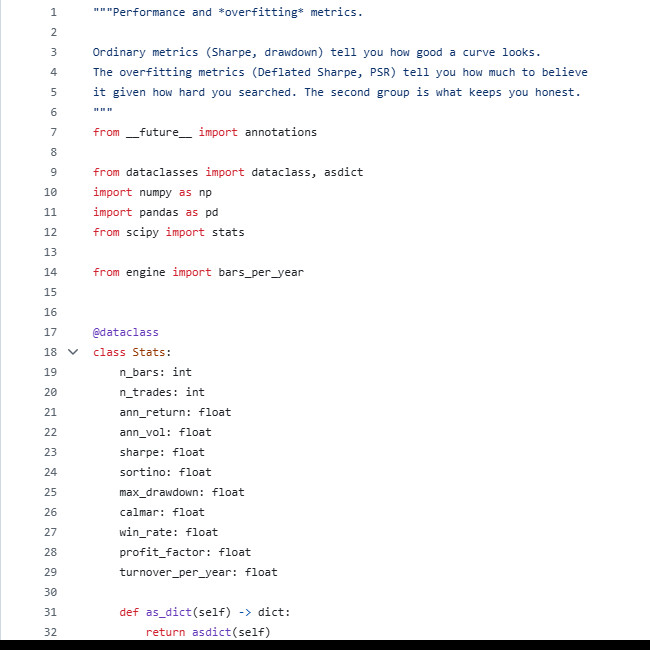
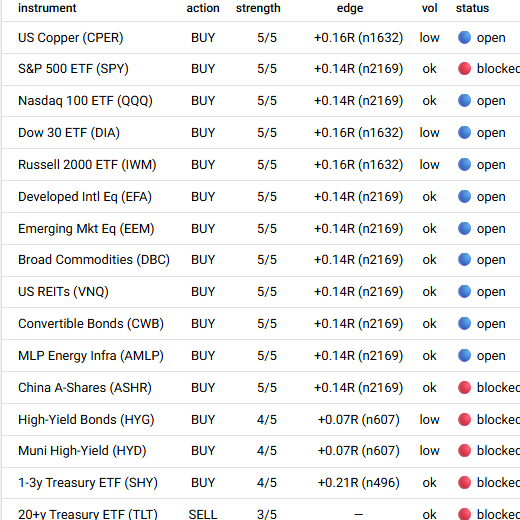
Add live dashboard link and real screenshots for Quant platform
The platform now has a public dashboard at quant.carsonng.com — add
a Live button/link alongside GitHub, and replace the repo-README-only
screenshot set with three real captures:

- board.png: the paper-trading Board view (redacted the paper
  account number, which appears twice in the UI chrome — precautionary,
  it's simulated money and the account ID isn't a credential, but
  consistent with the redaction standard already applied elsewhere)
- signals_gates.png: the live "Signals & Gates" view, which shows the
  deterministic risk gate directly — every instrument's entry
  conditions (strength, R:R, cooldown, de-correlation) and the exact
  reason a trade is blocked, not just open/blocked. No account
  numbers or dollar figures on this view at all, and it's a stronger,
  safer proof of the "deterministic gate, not an LLM judgment call"
  claim than the dashboard's financial totals are.
- repo_readme.png: kept as third image, unchanged

New cover_thumb.png is a close-up of the Signals & Gates table
(colorful open/blocked status dots + real gate reasoning) rather than
anything derived from the financial dashboard.

Did not access the LIVE (real-money) account view behind the
dashboard's "Open LIVE" toggle — stayed on the paper instance that
loads by default throughout.

diff --git a/assets/js/main.js b/assets/js/main.js
@@ -200,7 +200,7 @@ $(function () {
 	var images = [];
 	images['sprint_analyzer'] = ['landing.png'];
 	images['change_impact_assessor'] = ['landing.png', 'assessment_result.png'];
-	images['quant_dashboard'] = ['repo_readme.png'];
+	images['quant_dashboard'] = ['board.png', 'signals_gates.png', 'repo_readme.png'];
 	images['aws_code_review'] = ['pr_overview.png', 'q_developer_review.png'];
 	images['study_platform'] = ['landing.png'];
 	images['event_radar'] = ['landing.png', 'insights.png'];
@@ -223,7 +223,7 @@ $(function () {
 	var titles = [];
 	titles['sprint_analyzer'] = ['Sprint Analyzer dashboard'];
 	titles['change_impact_assessor'] = ['Change Impact Assessor input form', 'HIGH-risk assessment pending human sign-off'];
-	titles['quant_dashboard'] = ['Quantitative Trade-Analysis Platform research findings'];
+	titles['quant_dashboard'] = ['Live paper-trading dashboard', 'Deterministic risk-gate status per instrument', 'Research findings from the public repo'];
 	titles['aws_code_review'] = ['Real PR showing automated review bots', 'Amazon Q Developer security findings'];
 	titles['study_platform'] = ['Adaptive Study Platform dashboard'];
 	titles['event_radar'] = ['Event Radar event feed', 'LLM cost & latency observability'];
@@ -320,11 +320,15 @@ $(function () {
 			'tags': ['AI Engineering', 'AI Governance', 'Cloud/DevOps']
 		}, {
 			'title': 'Quantitative Trade-Analysis Platform',
-			'description': 'A research-driven trading platform for a diversified 22-ETF book, engineered so no capital moves on a hunch: a walk-forward, deflated-Sharpe-tested backtester proves an edge first, a multi-agent LLM analyst (regime / technical / sentiment) feeds a deterministic risk gate — not a direct trade call — and a live dashboard now trades real money on Interactive Brokers alongside a fully isolated, hard-guarded paper account.<br><br>80+ strategy ideas tested with out-of-sample / DSR discipline — only one core edge plus one validated satellite survived; everything else was rejected with data, not intuition.',
+			'description': 'A research-driven trading platform for a diversified 22-ETF book, engineered so no capital moves on a hunch: a walk-forward, deflated-Sharpe-tested backtester proves an edge first, a multi-agent LLM analyst (regime / technical / sentiment) feeds a deterministic risk gate — not a direct trade call — and a live dashboard now trades real money on Interactive Brokers alongside a fully isolated, hard-guarded paper account.<br><br>The public dashboard shows the paper-trading instance, including the live "Signals & Gates" view — every instrument scored against explicit entry rules (strength, R:R, cooldown, de-correlation), with the exact reason a trade is blocked shown, not just a pass/fail. 80+ strategy ideas tested with out-of-sample / DSR discipline — only one core edge plus one validated satellite survived; everything else was rejected with data, not intuition.',
 			'thumbnail': thumbnail_paths['quant_dashboard'],
 			'large': large_paths['quant_dashboard'],
 			'img_title': titles['quant_dashboard'],
 			'button_list': [{
+				'title': 'Live',
+				'url': 'https://quant.carsonng.com/',
+				'new_window': true
+			}, {
 				'title': 'GitHub',
 				'url': 'https://github.com/CarsonBytes/trade_analysis',
 				'new_window': true

diff --git a/README.md b/README.md
@@ -21,7 +21,7 @@ The common thread: governance mechanisms that are load-bearing parts of the syst
 |---|---|---|
 | **Change Impact Assessor** | Retrieval-grounded risk assessor for code/infra changes. HIGH-risk changes pause a LangGraph workflow behind a real human-in-the-loop checkpoint, not just an advisory label, with structural anti-hallucination guards. | [Live demo](https://carsonng.short.gy/change-impact-assessor) · [GitHub](https://carsonng.short.gy/change-impact-assessor-github) |
 | **AWS AI Code Review & Security Scanning Demo** | Automated PR gate combining Amazon Q Developer (AI code review) and Amazon Inspector (security scanning). Real example: the bots caught an over-privileged IAM role, a vulnerable dependency, and a missing CloudFormation security property before merge. | [GitHub](https://github.com/CarsonBytes/aws_code_review) |
-| **Quantitative Trade-Analysis Platform** | Research-driven trading platform for a diversified 22-ETF book: a walk-forward, deflated-Sharpe-tested backtester proves an edge before capital is risked; a multi-agent LLM analyst feeds a deterministic risk gate; the live dashboard now trades real money on Interactive Brokers alongside an isolated paper account. 80+ strategy ideas tested — only one core edge survived. | [GitHub](https://github.com/CarsonBytes/trade_analysis) |
+| **Quantitative Trade-Analysis Platform** | Research-driven trading platform for a diversified 22-ETF book: a walk-forward, deflated-Sharpe-tested backtester proves an edge before capital is risked; a multi-agent LLM analyst feeds a deterministic risk gate; the live dashboard now trades real money on Interactive Brokers alongside an isolated paper account. The public dashboard's "Signals & Gates" view shows the deterministic gate live — the exact reason a trade is blocked, not just pass/fail. 80+ strategy ideas tested — only one core edge survived. | [Live](https://quant.carsonng.com/) · [GitHub](https://github.com/CarsonBytes/trade_analysis) |
 | **Sprint Analyzer** | AI sprint retrospective generator with a deterministic-numbers / LLM-prose split — pandas computes every metric from Jira/ClickUp exports, the LLM only writes prose. 110+ unit tests run without an API key. | [Live demo](https://carsonng.short.gy/sprint-analyzer) · [GitHub](https://carsonng.short.gy/sprint-analyzer-carsonng) |
 | **Adaptive Study Platform** | An AIGP exam-prep tool built for my own certification study: FSRS-scheduled spaced repetition, an epsilon-greedy bandit targeting weak topics, and Supabase + pgvector RAG for grounded AI explanations. | [Live](https://study.carsonng.com) · [GitHub](https://github.com/CarsonBytes/study_platform) |
 | **Event Radar** | AI-powered event discovery for Hong Kong: two-stage LLM ranking to keep API costs sane, graceful degradation on LLM failures, and a closed personalization feedback loop. | [Live](https://events.carsonng.com) · [GitHub](https://github.com/CarsonBytes/event_planner) |
